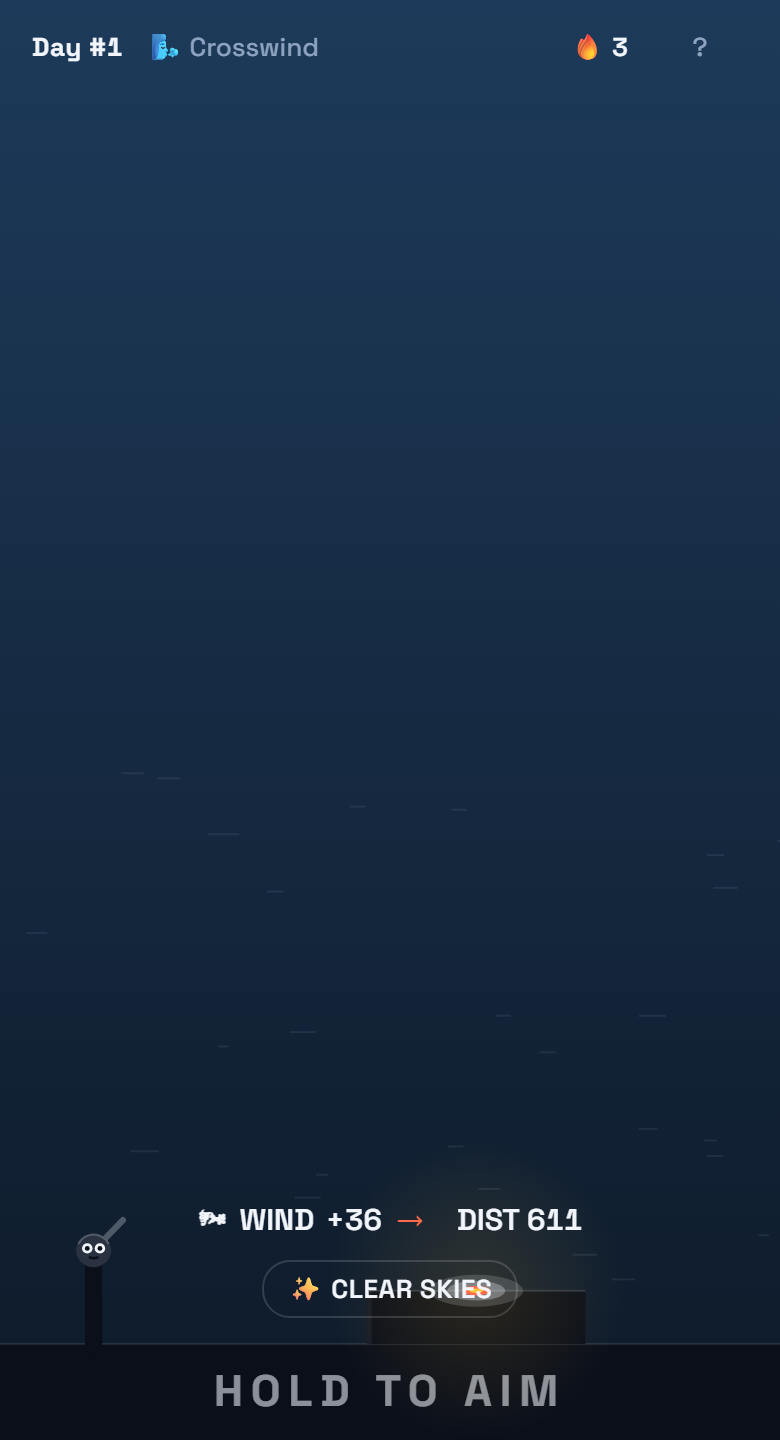
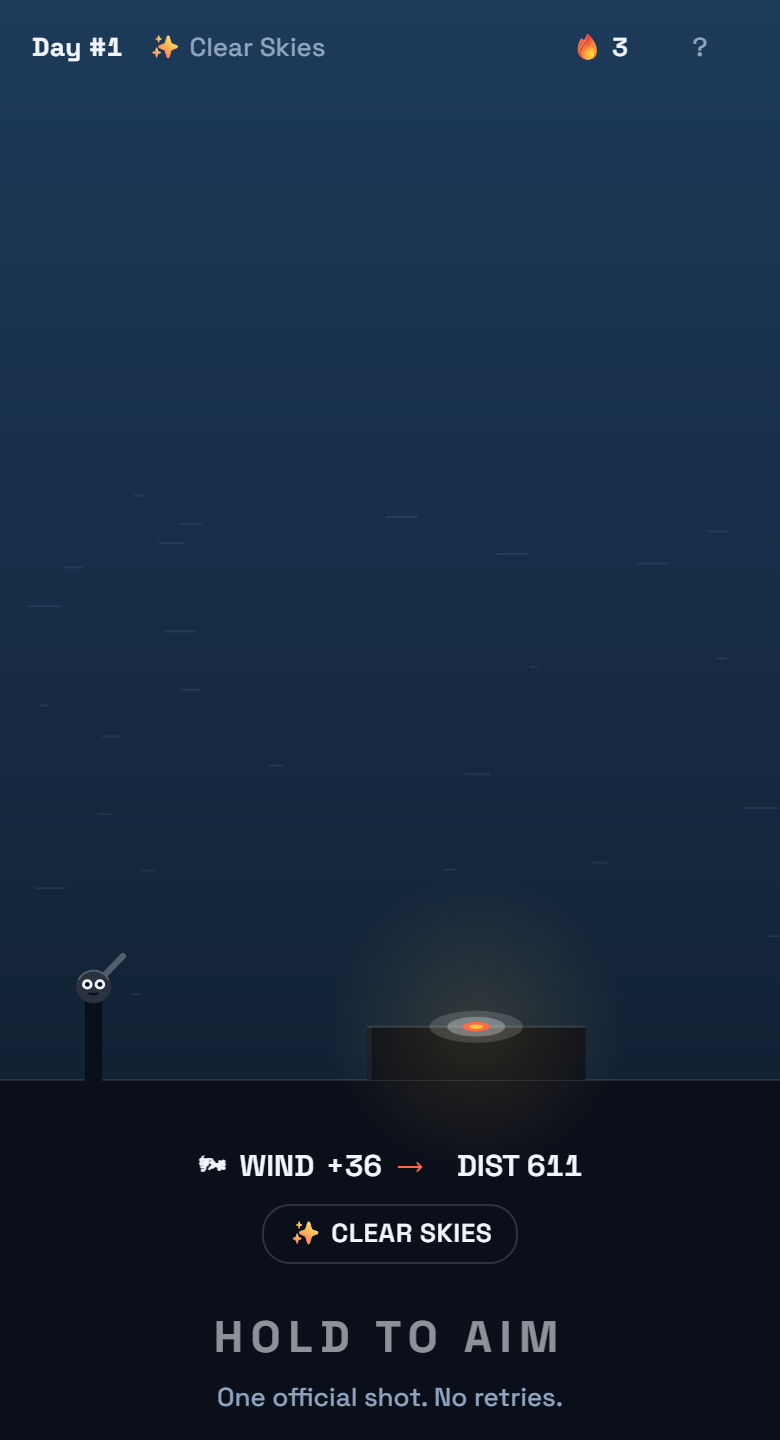
fix(scene): give the panel its own band, and stop the harness contradicting itself
The aiming screen drew the conditions, the modifier pill and HOLD TO AIM on top
of the mat. Measured at 390x720: fitting the 1000-unit width gives a scale of
0.39, which packs the whole world into the bottom 42% of the frame -- precisely
where the panel lives. §5 reserves about a quarter of the height for it, so the
camera now takes a bottom inset while the player is aiming, and gives it back the
moment the ball is away.

`One official shot. No retries.` was missing from under the pill. It is P0 in
§15 and the one sentence the whole game rests on. Shown once, and only in
`ready`: not during the warm-up, which does not count, and not in practice,
which is unlimited -- "no retries" there is a lie the player can disprove in one
tap.

The harness claimed CROSSWIND while the client regenerated the day's level from
the seed and drew CLEAR SKIES, so the day bar and the pill disagreed in every
screenshot ever taken from it. In production they cannot disagree: both derive
the modifier from the day number. The stub now does the same.

The capture rig also learnt to report clipping, not just scrolling. A screen
laid out with `overflow: hidden` cannot scroll -- that is the rule -- so it
fails by cutting content off at an edge instead, silently. It earned its keep
immediately: HOLD TO AIM looked cut off to me in a screenshot and measures as
entirely inside the frame.

diff --git a/src/client/scene/camera.ts b/src/client/scene/camera.ts
@@ -25,11 +25,24 @@ export type Camera = {
 const BASE_VIEW_HEIGHT = 780;
 const TOP_MARGIN = 120;
 
+/**
+ * Share of the canvas the bottom panel occupies while aiming (§5: day bar 44px,
+ * scene at least 56%, panel about 25%).
+ *
+ * Without it the ground line sat 48px off the bottom edge and the conditions,
+ * the pill and `HOLD TO AIM` were drawn *over* the mat — measured at 390x720,
+ * where fitting the 1000-unit width gives a scale of 0.39 and packs the whole
+ * world into the bottom 42% of the frame, exactly where the panel lives.
+ */
+export const PANEL_SHARE = 0.25;
+
 export const buildCamera = (
   canvasWidth: number,
   canvasHeight: number,
   apex: number,
-  zoom = 1
+  zoom = 1,
+  /** Pixels reserved below the ground line for the panel. */
+  bottomInset = 0
 ): Camera => {
   const viewHeight = Math.max(BASE_VIEW_HEIGHT, apex + TOP_MARGIN);
 
@@ -37,8 +50,10 @@ export const buildCamera = (
   // the arc still would not fit vertically.
   const scale = Math.min(canvasWidth / SPACE_W, canvasHeight / viewHeight) * zoom;
 
-  // Ground sits just above the bottom edge so the launcher never touches it.
-  const groundPixels = canvasHeight - Math.min(48, canvasHeight * 0.08);
+  // Ground sits above whatever the panel reserves, and never closer to the
+  // bottom edge than the launcher's own height.
+  const groundPixels =
+    canvasHeight - Math.max(bottomInset, Math.min(48, canvasHeight * 0.08));
 
   return {
     scale,

diff --git a/src/client/scene/useScene.ts b/src/client/scene/useScene.ts
@@ -22,7 +22,7 @@ import {
   slowMotionScale,
 } from '../motion.ts';
 import type { Palette } from '../theme.ts';
-import { apexOf, buildCamera, flightZoom } from './camera.ts';
+import { apexOf, buildCamera, flightZoom, PANEL_SHARE } from './camera.ts';
 import {
   ParticleField,
   makeWindStreaks,
@@ -230,7 +230,10 @@ export const useScene = (options: SceneOptions): {
       // -- Camera ---------------------------------------------------------
       const apex = playing ? apexOf(playing.trajectory) : 700;
       const zoom = playing ? flightZoom(flightProgress) : 1;
-      const camera = buildCamera(width, height, apex, zoom);
+      // The panel only owns the bottom of the frame while the player is
+      // aiming; once the ball is away it is the scene's again.
+      const inset = opts.canAim ? height * PANEL_SHARE : 0;
+      const camera = buildCamera(width, height, apex, zoom, inset);
 
       const shakeMagnitude =
         state.shakeLeft > 0

diff --git a/src/client/App.tsx b/src/client/App.tsx
@@ -532,6 +532,17 @@ export const App = (): JSX.Element => {
             >
               {charging ? COPY.releaseToShoot : COPY.holdToAim}
             </div>
+            {/*
+              Said once, and only for the shot it is true of. Not during the
+              warm-up, which does not count, and not in practice, which is
+              unlimited — claiming "no retries" there would be a lie the player
+              can immediately disprove.
+            */}
+            {phase === 'ready' && (
+              <div className="pt-1 pb-1 text-center text-[13px] text-[color:var(--color-mist)]">
+                {COPY.stakes}
+              </div>
+            )}
           </>
         )}
 

diff --git a/src/shared/copy.ts b/src/shared/copy.ts
@@ -130,6 +130,15 @@ export const COPY = {
   feedTodayOpened: 'today just opened',
   feedStreakSuffix: 'DAY STREAK',
 
+  /**
+   * Under the aim pill, once, before the first hold (§5, §10.5).
+   *
+   * The rule the whole game rests on, stated calmly and exactly once. §2 is
+   * explicit that the tension is shown rather than shouted: no red, no
+   * countdown, no repetition.
+   */
+  stakes: 'One official shot. No retries.',
+
   // -- Result ---------------------------------------------------------------
   /** GDD 9.9 */
   offTheMap: 'OFF THE MAP',

diff --git a/docs/UI-V2-LOG.md b/docs/UI-V2-LOG.md
@@ -92,3 +92,34 @@ Five lines per phase: done, verified, left. Newest at the bottom.
   before the flag they were testing. The capture rig now refuses to run against
   a server it did not start. **Left:** the plateau still reads as a dark block
   and Pip's face is the game's old rig — phases 6 and 7.
+
+---
+
+## Phase 3 — Game scene (part 1 of 2: performance and framing)
+
+- **Done.** Sky bitmap cached at device resolution; the trail batched from forty
+  stroke calls into five bands and its per-frame `slice()` removed; the camera
+  now reserves §5's bottom band so the conditions and the aim pill stop being
+  drawn over the mat; `One official shot. No retries.` added under the pill,
+  shown once and only for the shot it is true of. The harness derives the day's
+  modifier from the seed instead of hardcoding one.
+- **Verified by measurement, and the measurement led.** `tools/qa/perf.mjs` and
+  `tools/qa/profile.mjs` were built before any refactor, because the gate is a
+  frame-time number. **4x CPU: aiming 1 → 0 dropped frames, flight 17 → 2. 6x
+  CPU: aiming 88 → 3, flight 78 → 13, and the game moves from 30fps to a held
+  60.** Idle time in a throttled flight frame went from 0.4% to 37.6%.
+- **The profile overruled the plan twice.** The trail *looked* like the cost and
+  batching it bought three frames of seventeen; the profile then showed **88% of
+  the frame in `(program)`** — the compositor — against ~8% for all JavaScript,
+  which is what pointed at the sky. And the first cache made things *worse*
+  (53 dropped frames against 1) by storing CSS pixels that the DPR transform
+  resampled on every blit.
+- **Two answers already in the tree.** DPR is already clamped to 2 in
+  `useScene`, so that Phase 3 item was done before it was asked for; and the
+  capture rig gained clipping detection, which immediately corrected a visual
+  read of mine — `HOLD TO AIM` looked cut off in a screenshot and measures as
+  fully inside the frame. Twenty captures, zero scroll, zero clipping.
+- **Left, and it is the other half of phase 3:** `themes.ts` with §11's seven
+  atmospheres and the vector modifier glyphs that replace the emoji still in the
+  day bar and the pill; the 1.2s opening sequence; and the hold/release feel
+  (squash, vignette, particles at 0.6x, shrinking pupils, freeze-and-stretch).
